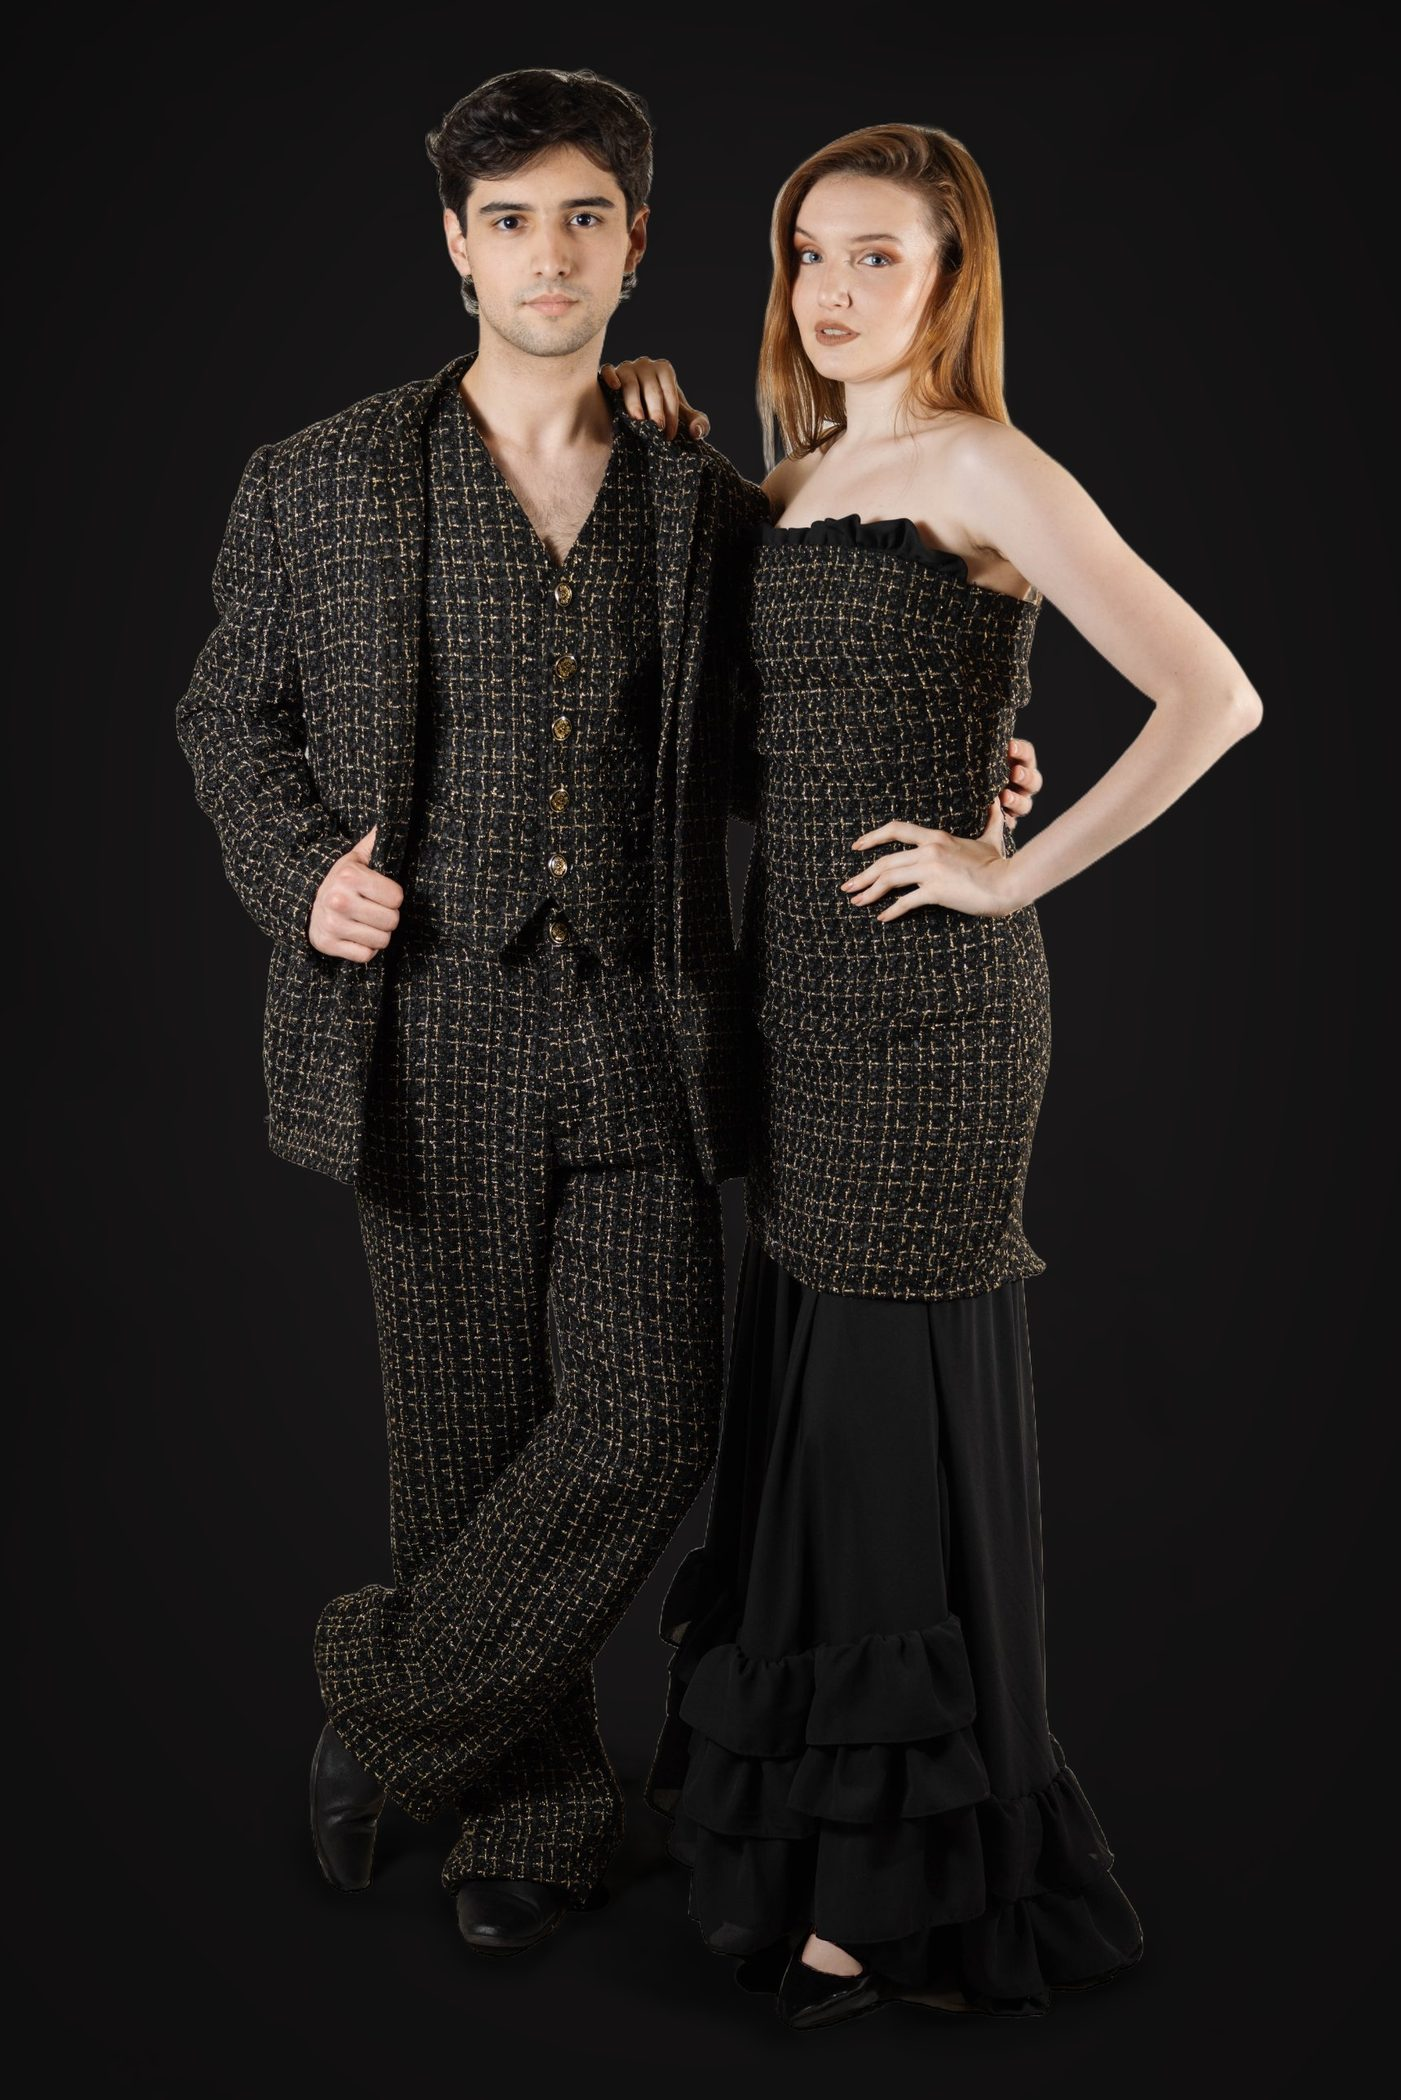
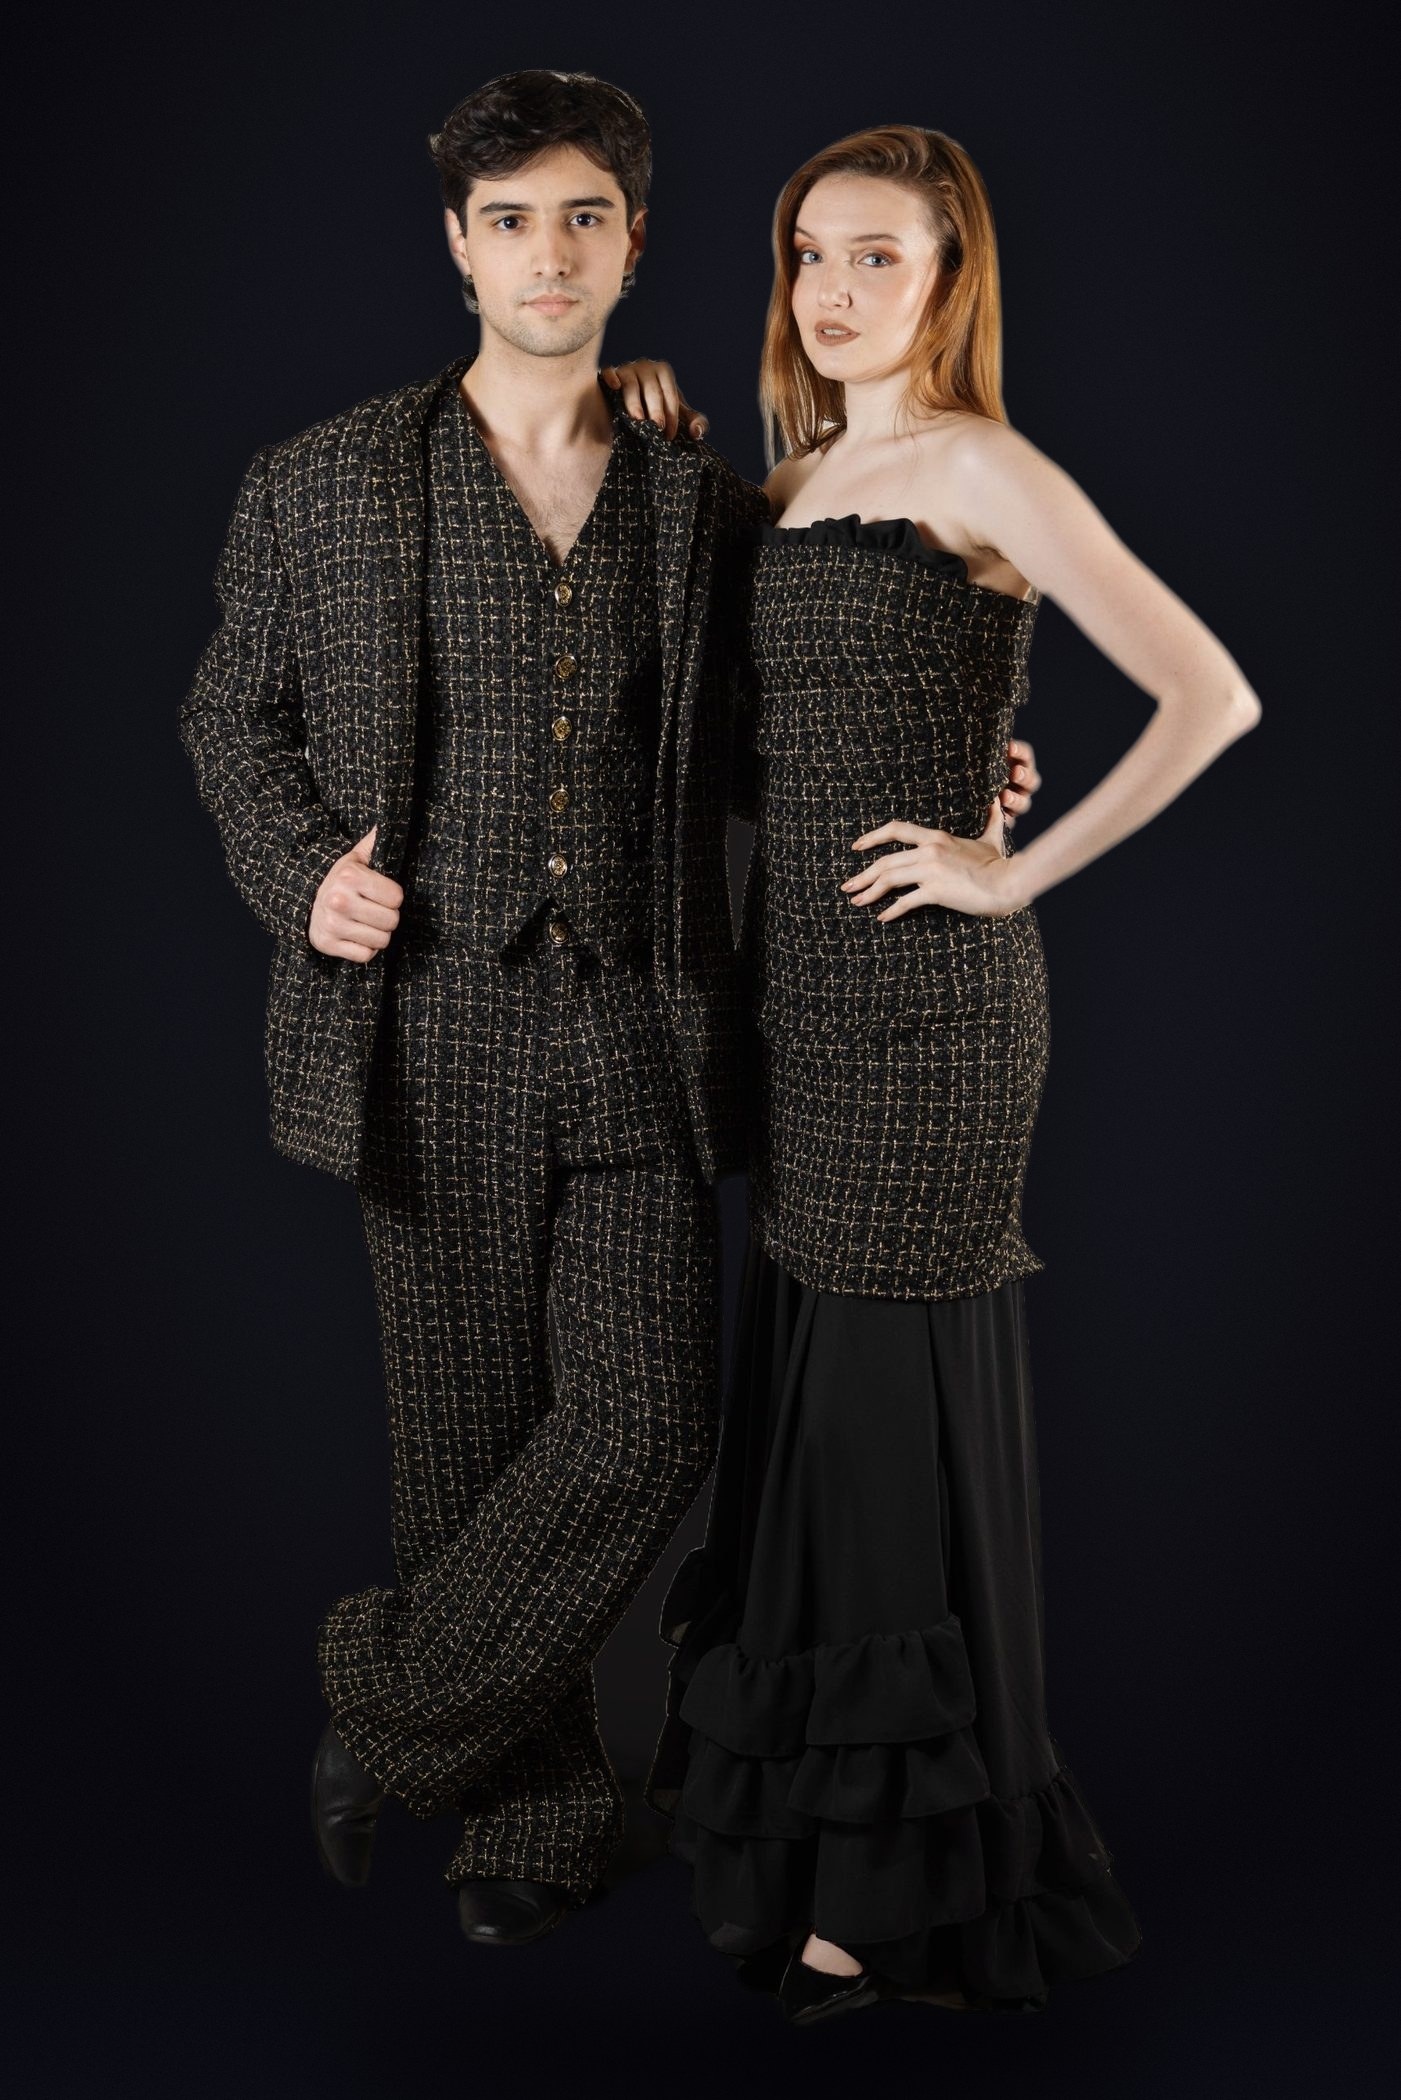
Próximamente sin fecha, portadas Cóctel/Fiesta y portada formal

diff --git a/src/App.jsx b/src/App.jsx
@@ -6,6 +6,7 @@ import { Toaster } from 'react-hot-toast';
 import MainLayout from './components/layout/MainLayout/MainLayout.jsx';
 import ScrollToTop from './components/common/ScrollToTop/ScrollToTop.jsx';
 import EntradasShell from './entradas/components/EntradasShell/EntradasShell.jsx';
+import { SITIO_ABIERTO } from './launch.js';
 
 // Cada página se descarga recién cuando se visita (code splitting),
 // así la primera carga del sitio es mucho más liviana.
@@ -24,6 +25,7 @@ const FaqsPage = lazy(() => import('./pages/FaqsPage/FaqsPage.jsx'));
 const TermsPage = lazy(() => import('./pages/TermsPage/TermsPage.jsx'));
 const PrivacyPage = lazy(() => import('./pages/PrivacyPage/PrivacyPage.jsx'));
 const NotFoundPage = lazy(() => import('./pages/NotFoundPage/NotFoundPage.jsx'));
+const ProximamentePage = lazy(() => import('./pages/ProximamentePage/ProximamentePage.jsx'));
 // Panel de administración (se descarga aparte, solo al entrar a /admin)
 const AdminApp = lazy(() => import('./admin/AdminApp.jsx'));
 // Entradas del desfile: micrositio con estética propia (sin header ni footer de la web)
@@ -68,30 +70,43 @@ function App() {
         {MockMpPage && <Route path="/mock-mp" element={<EntradasShell><Suspense fallback={null}><MockMpPage /></Suspense></EntradasShell>} />}
 
         {/* Portada: sin header (tiene el logo propio sobre el tríptico) */}
-        <Route element={<MainLayout showHeader={false} />}>
-          <Route index element={<LandingPage />} />
-        </Route>
+        {SITIO_ABIERTO ? (
+          <>
+          <Route element={<MainLayout showHeader={false} />}>
+            <Route index element={<LandingPage />} />
+          </Route>
 
-        {/* Resto del sitio: con header fijo */}
-        <Route element={<MainLayout />}>
-          <Route path="/sobre-ico" element={<AboutPage />} />
-          <Route path="/tienda" element={<ShopPage />} />
-          <Route path="/tienda/:gender/:category" element={<CategoryPage />} />
-          <Route path="/tienda/:gender/:category/:subcategory" element={<CategoryPage />} />
-          <Route path="/tienda/:gender/:category/:subcategory/:item" element={<CategoryPage />} />
-          <Route path="/producto/:productId" element={<ProductDetailPage />} />
-          <Route path="/carrito" element={<CartPage />} />
-          <Route path="/colecciones/:id" element={<CollectionPage />} />
-          <Route path="/desfiles" element={<RunwaysPage />} />
-          <Route path="/desfiles/:id" element={<RunwayPage />} />
-          <Route path="/contacto" element={<ContactPage />} />
-          <Route path="/faqs" element={<FaqsPage />} />
-          <Route path="/terminos" element={<TermsPage />} />
-          <Route path="/privacidad" element={<PrivacyPage />} />
-          {/* /:gender/:styleType valida adentro que sea hombre|mujer y formal|casual */}
-          <Route path="/:gender/:styleType" element={<StylePage />} />
-          <Route path="*" element={<NotFoundPage />} />
-        </Route>
+          {/* Resto del sitio: con header fijo */}
+          <Route element={<MainLayout />}>
+            <Route path="/sobre-ico" element={<AboutPage />} />
+            <Route path="/tienda" element={<ShopPage />} />
+            <Route path="/tienda/:gender/:category" element={<CategoryPage />} />
+            <Route path="/tienda/:gender/:category/:subcategory" element={<CategoryPage />} />
+            <Route path="/tienda/:gender/:category/:subcategory/:item" element={<CategoryPage />} />
+            <Route path="/producto/:productId" element={<ProductDetailPage />} />
+            <Route path="/carrito" element={<CartPage />} />
+            <Route path="/colecciones/:id" element={<CollectionPage />} />
+            <Route path="/desfiles" element={<RunwaysPage />} />
+            <Route path="/desfiles/:id" element={<RunwayPage />} />
+            <Route path="/contacto" element={<ContactPage />} />
+            <Route path="/faqs" element={<FaqsPage />} />
+            <Route path="/terminos" element={<TermsPage />} />
+            <Route path="/privacidad" element={<PrivacyPage />} />
+            {/* /:gender/:styleType valida adentro que sea hombre|mujer y formal|casual */}
+            <Route path="/:gender/:styleType" element={<StylePage />} />
+            <Route path="*" element={<NotFoundPage />} />
+          </Route>
+          </>
+        ) : (
+          <>
+            {/* Antes del lanzamiento: solo legales (los usa el pago) y la pantalla "Próximamente" */}
+            <Route element={<MainLayout />}>
+              <Route path="/terminos" element={<TermsPage />} />
+              <Route path="/privacidad" element={<PrivacyPage />} />
+            </Route>
+            <Route path="*" element={<Suspense fallback={null}><ProximamentePage /></Suspense>} />
+          </>
+        )}
       </Routes>
     </BrowserRouter>
   );

diff --git a/src/pages/ProximamentePage/ProximamentePage.module.css b/src/pages/ProximamentePage/ProximamentePage.module.css
@@ -1,0 +1,101 @@
+.page {
+  /* el <main> global tiene max-width y padding: acá ocupa toda la pantalla */
+  max-width: none;
+  margin: 0;
+  padding: 0;
+  min-height: 100vh;
+  min-height: 100dvh;
+  display: grid;
+  grid-template-columns: 1fr 1fr;
+  background: #0d0c12;
+  color: #f2efe8;
+}
+.photo {
+  order: 2;
+  position: relative;
+  background: url('/assets/images/portadas/landing-formal.jpg') center bottom / contain no-repeat #0d0c12;
+  min-height: 100%;
+}
+/* funde los bordes de la foto con el fondo */
+.photo::after {
+  content: '';
+  position: absolute;
+  inset: 0;
+  background:
+    linear-gradient(to right, #0d0c12 0%, rgba(13, 12, 18, 0) 18%, rgba(13, 12, 18, 0) 82%, #0d0c12 100%),
+    linear-gradient(to bottom, #0d0c12 0%, rgba(13, 12, 18, 0) 12%, rgba(13, 12, 18, 0) 90%, #0d0c12 100%);
+}
+.content {
+  order: 1;
+  display: flex;
+  flex-direction: column;
+  justify-content: center;
+  align-items: flex-start;
+  gap: 22px;
+  padding: 64px clamp(24px, 7vw, 110px);
+  max-width: 700px;
+  justify-self: end;
+}
+.logo { height: 84px; width: auto; margin-bottom: 18px; }
+.eyebrow {
+  margin: 0;
+  font-family: var(--primary-font);
+  font-size: 0.75rem;
+  letter-spacing: 0.32em;
+  text-transform: uppercase;
+  color: #b9a888;
+}
+.title {
+  margin: 0;
+  font-family: var(--secondary-font);
+  font-weight: 400;
+  font-size: clamp(2.2rem, 3.6vw, 3.4rem);
+  line-height: 1.08;
+}
+.title span { white-space: nowrap; font-style: italic; }
+.text {
+  margin: 0;
+  max-width: 34ch;
+  font-family: var(--primary-font);
+  font-size: 1.02rem;
+  line-height: 1.6;
+  color: #cfcac0;
+}
+.actions { display: flex; flex-wrap: wrap; gap: 12px; margin-top: 8px; }
+.primary,
+.secondary {
+  font-family: var(--primary-font);
+  font-size: 0.78rem;
+  letter-spacing: 0.16em;
+  text-transform: uppercase;
+  text-decoration: none;
+  padding: 17px 26px;
+  transition: background 0.2s, color 0.2s;
+}
+.primary { background: #f2efe8; color: #0d0d0d; }
+.primary:hover { background: #fff; }
+.secondary { border: 1px solid #6d6a63; color: #f2efe8; }
+.secondary:hover { border-color: #f2efe8; }
+.primary:focus-visible,
+.secondary:focus-visible,
+.ig:focus-visible { outline: 2px solid #b9a888; outline-offset: 3px; }
+.ig {
+  margin-top: 18px;
+  font-family: var(--primary-font);
+  font-size: 0.85rem;
+  color: #9a958c;
+  text-decoration: none;
+}
+.ig:hover { color: #f2efe8; }
+.credit { margin: 6px 0 0; font-family: var(--primary-font); font-size: 0.75rem; color: #6f6b64; }
+.credit a { color: #9a958c; text-decoration: underline; text-underline-offset: 3px; }
+.credit a:hover { color: #f2efe8; }
+
+@media (max-width: 820px) {
+  .page { grid-template-columns: 1fr; grid-template-rows: 46vh auto; }
+  .photo { order: 1; background-size: cover; background-position: center 16%; }
+  .content { order: 2; justify-self: stretch; max-width: none; padding: 36px 24px 48px; gap: 18px; }
+  .logo { height: 64px; margin-bottom: 6px; }
+  .actions { flex-direction: column; align-self: stretch; }
+  .primary, .secondary { text-align: center; }
+}

diff --git a/src/pages/ProximamentePage/ProximamentePage.jsx b/src/pages/ProximamentePage/ProximamentePage.jsx
@@ -1,0 +1,50 @@
+// /src/pages/ProximamentePage/ProximamentePage.jsx
+// Pantalla pública mientras la tienda no está lanzada (ver /src/launch.js).
+import { useEffect } from 'react';
+import { Link } from 'react-router-dom';
+import { WHATSAPP_NUMBER, DEVELOPER } from '../../config/contact.js';
+import styles from './ProximamentePage.module.css';
+
+export default function ProximamentePage() {
+  useEffect(() => {
+    const prev = document.title;
+    document.title = 'Ico Batista — Próximamente';
+    return () => {
+      document.title = prev;
+    };
+  }, []);
+
+  return (
+    <main className={styles.page}>
+      <div className={styles.photo} aria-hidden="true" />
+      <section className={styles.content}>
+        <img className={styles.logo} src="/assets/images/eventos/logo_light.png" alt="Ico Batista" />
+        <p className={styles.eyebrow}>Próximamente</p>
+        <h1 className={styles.title}>
+          Sitio en <span>desarrollo</span>
+        </h1>
+        <p className={styles.text}>
+          Estamos terminando los últimos detalles de la nueva tienda online de Ico Batista. Muy pronto podrás
+          recorrerla.
+        </p>
+        <div className={styles.actions}>
+          <Link to="/entradas" className={styles.primary}>
+            Entradas para el desfile
+          </Link>
+          <a className={styles.secondary} href={`https://wa.me/${WHATSAPP_NUMBER}`} target="_blank" rel="noreferrer">
+            Consultas por WhatsApp
+          </a>
+        </div>
+        <a className={styles.ig} href="https://www.instagram.com/byicobatista/" target="_blank" rel="noreferrer">
+          @byicobatista
+        </a>
+        <p className={styles.credit}>
+          Desarrollado por{' '}
+          <a href={DEVELOPER.url} target="_blank" rel="noopener noreferrer">
+            {DEVELOPER.name}
+          </a>
+        </p>
+      </section>
+    </main>
+  );
+}

diff --git a/src/launch.js b/src/launch.js
@@ -1,0 +1,23 @@
+// /src/launch.js
+// Lanzamiento de la tienda. Mientras SITIO_ABIERTO sea false, la web muestra la página
+// "Próximamente" y solo funcionan: entradas del desfile, panel (/admin), términos y privacidad.
+//
+// Para abrir la tienda: en Vercel agregar VITE_SITIO_ABIERTO=1 (Production) y redeployar.
+// Vista previa para Ico y Mauro (en ese navegador queda guardada):
+//   icobatista.com/?vista=previa   → ver la tienda completa
+//   icobatista.com/?vista=publica  → volver a ver lo que ve el público
+const KEY = 'ib_vista_previa';
+
+function previewActiva() {
+  if (typeof window === 'undefined') return false;
+  try {
+    const v = new URLSearchParams(window.location.search).get('vista');
+    if (v === 'previa') window.localStorage.setItem(KEY, '1');
+    if (v === 'publica') window.localStorage.removeItem(KEY);
+    return window.localStorage.getItem(KEY) === '1';
+  } catch {
+    return new URLSearchParams(window.location.search).get('vista') === 'previa';
+  }
+}
+
+export const SITIO_ABIERTO = import.meta.env.VITE_SITIO_ABIERTO === '1' || previewActiva();

diff --git a/src/components/views/StylePageIntro/StylePageIntro.jsx b/src/components/views/StylePageIntro/StylePageIntro.jsx
@@ -24,9 +24,8 @@ const SUBCATEGORIES = {
   },
   mujer: {
     formal: [
-      { name: 'Cóctel', path: '/tienda/mujer/formal/coctel', image: `${IMG}/mujer-formal-coctel.jpg` }, // IB-0019 Vestido "Nocturna"
-      { name: 'Fiesta', path: '/tienda/mujer/formal/fiesta', image: `${IMG}/mujer-formal-fiesta.jpg` }, // IB-0146
-      { name: 'Gala', path: '/tienda/mujer/formal/gala', image: `${IMG}/mujer-formal-gala.jpg` }, // IB-0010 Vestido "Cénit"
+      { name: 'Cóctel', path: '/tienda/mujer/formal/coctel', image: `${IMG}/mujer-formal-coctel.jpg` }, // IB-0019 Vestido "Nocturna" (cuerpo entero)
+      { name: 'Fiesta', path: '/tienda/mujer/formal/fiesta', image: `${IMG}/mujer-formal-fiesta.jpg` }, // IB-0010 Vestido "Cénit"
     ],
     casual: [
       { name: 'Sport', path: '/tienda/mujer/casual/sport', image: `${IMG}/mujer-casual-sport.jpg` }, // IB-0159
